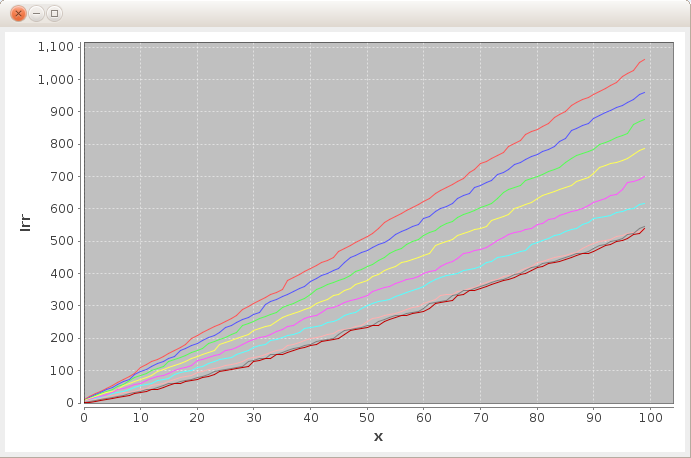
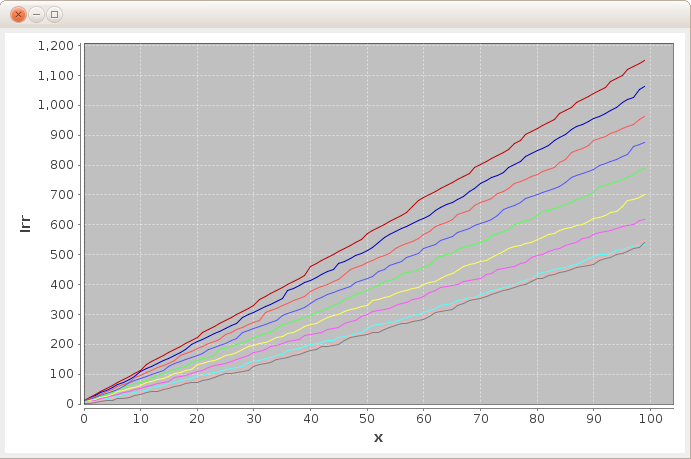
screenshot.png

diff --git a/src/Abstract.java b/src/Abstract.java
@@ -11,6 +11,7 @@ public class Abstract {
 			h[i] = new Hilbert(i+1, 1);
 			h[i].findZero();
 			irr[i] = h[i].getIrreducibleElements(maxN);
+			//irr[i] = h[i].getIrreducibles(maxN);
 		}
 		
 		// check category of Hilbert numbers
@@ -19,7 +20,7 @@ public class Abstract {
 		
 		// Plot irreducible elements
 		MultiPlot irrPlot = MultiPlot.newMultiPlot();
-		for (int i=0; i<n-1; i++) {
+		for (int i=0; i<n; i++) {
 			irrPlot.addDataSet(irr[i]);
 		}
 		
@@ -27,5 +28,27 @@ public class Abstract {
 		System.out.println("Irreducible elements of h1 (N+) and h4");
 		for (int i=0; i<maxN; i++)
 			System.out.println(irr[0][i] + " " + irr[3][i]); 
+		
+		
+		// print differences
+		/*if (true) {
+		  int x=5;
+		  for (int i=0; i<25; i++)
+			  System.out.println(i + " " + (irr[i+1][x*(i+2)] - irr[i][x*(i+2)]) + " " + irr[i][x*(i+2)] + " " + irr[i+1][x*(i+2)]); 
+		}*/
+		
+	}
+	
+	/*static double[] divide(int[] a, int[] b) {
+		
+		if (a.length != b.length) return null;
+		
+		double[] c = new double[a.length];
+		
+		for (int i=0; i<a.length; i++)
+			c[i] = (double)a[i]/(double)b[i];
+		
+		return c;
+	}*/
 
 }
